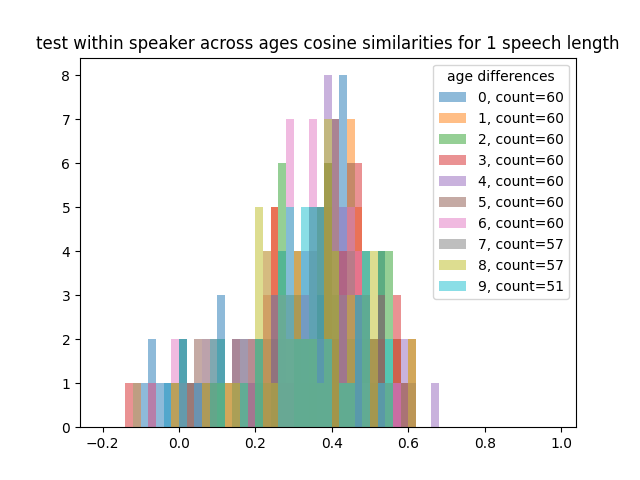
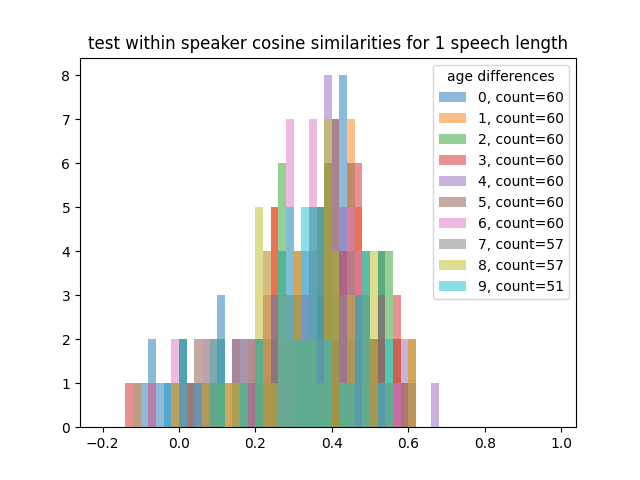
across speaker within age graphs

Changed region(s): [[0.0625, 0.0625, 0.9688, 0.125]]

diff --git a/scripts/embs_within_age_within_speaker.py b/scripts/embs_within_age_within_speaker.py
@@ -67,8 +67,12 @@ def get_cossim_df(num_pairs, parquet_path, save_path):
     return df
 
 
-def get_best_threshold_n_roc(df_within, df_across, split="train", NUM_PAIRS=3):
+def get_best_threshold_n_roc(df_within, df_across, split="train", NUM_PAIRS=3, mode="across"):
     """get metrics when comparing (across speakers) vs (within speakers at the same age)"""
+    if mode == "across":
+        mode = ""
+    else:
+        mode = "_within"
     scores = dict()
     for speech_length in speech_lengths:
         within_scores = list(reduce(lambda x, y: x + y, [df_within[f"score_{i}_{speech_length}"].tolist() for i in range(1, NUM_PAIRS+1)]))
@@ -93,14 +97,18 @@ def get_best_threshold_n_roc(df_within, df_across, split="train", NUM_PAIRS=3):
             plt.ylim([0, 1])
             plt.ylabel('True Positive Rate')
             plt.xlabel('False Positive Rate')
-            plt.savefig(os.path.join(results_dir, f"{split}_AOC_CURVE_within_speaker_within_age_VS_across_speaker_{speech_length}.png"))
+            plt.savefig(os.path.join(results_dir, f"{split}_AOC_CURVE_within_speaker_within_age_VS_across_speaker{mode}_{speech_length}.png"))
             plt.close()
             #
     return scores
 
 
-def vary_threshold_graph(df_within, df_across, split="train", NUM_PAIRS=3):
+def vary_threshold_graph(df_within, df_across, split="train", NUM_PAIRS=3, mode="across"):
     # """get metrics when comparing (across speakers) vs (within speakers at the same age)"""
+    if mode == "across":
+        mode = ""
+    else:
+        mode = "_within"
     scores = dict()
     for speech_length in speech_lengths:
         within_scores = list(reduce(lambda x, y: x + y, [df_within[f"score_{i}_{speech_length}"].tolist() for i in range(1, NUM_PAIRS+1)]))
@@ -163,7 +171,7 @@ def vary_threshold_graph(df_within, df_across, split="train", NUM_PAIRS=3):
             ax2.set_ylim(top=1.024396551724138)
             plt.legend()
             plt.title(f"Accuracy VS FNR/FNR at different thresholds for {speech_length} speech length")
-            fig.savefig(os.path.join(results_dir, f'{split}_acc_vs_fnr_n_fpr_within_age_within_age_VS_across_speaker_{speech_length}.png'),
+            fig.savefig(os.path.join(results_dir, f'{split}_acc_vs_fnr_n_fpr_within_age_within_age_VS_across_speaker{mode}_{speech_length}.png'),
                         format='png',
                         dpi=100,
                         bbox_inches='tight')
@@ -324,29 +332,84 @@ dev_across_age_df, dev_within_age_df, dev_across_speaker_df, dev_across_speaker_
 test_across_age_df, test_within_age_df, test_across_speaker_df, test_across_speaker_within_age_df = get_cossim_dfs("test")
 
 
-if GENERATE_GRAPHS:
+def within_vs_across_speaker_graphs(across_age_df, within_age_df, across_speaker_df, split="train", mode="across"):
     for speech_length in speech_lengths:
-        plt.hist(list(reduce(lambda x, y: x + y, [train_across_age_df[f"score_{i}_{speech_length}"].tolist() for i in range(1, NUM_PAIRS+1)])),
+        plt.hist(list(reduce(lambda x, y: x + y, [across_age_df[f"score_{i}_{speech_length}"].tolist() for i in range(1, NUM_PAIRS+1)])),
                 label="within speakers across ages", alpha=0.5)#, histtype="step")
-        plt.hist(train_across_speaker_df[f"score_1_{speech_length}"].tolist(),
-                label="across speakers", alpha=0.5)#, histtype="step")
+        plt.hist(across_speaker_df[f"score_1_{speech_length}"].tolist(),
+                label=f"across speakers {mode} ages", alpha=0.5)#, histtype="step")
         plt.legend()
-        plt.title(f'train across speaker VS within speaker across ages cosine similarity scores for {speech_length} speech length')
-        plt.savefig(os.path.join(results_dir, f"train_within_speaker_across_age_VS_across_speaker_{speech_length}_cossim_score.png"))
+        plt.title(f'{split} across speaker VS within speaker across ages cosine similarity scores for {speech_length} speech length')
+        plt.savefig(os.path.join(results_dir, f"{split}_within_speaker_across_age_VS_across_speaker_{speech_length}_cossim_score.png"))
         plt.close()
-#
+        #
     for speech_length in speech_lengths:
-        plt.hist(list(reduce(lambda x, y: x + y, [train_within_age_df[f"score_{i}_{speech_length}"].tolist() for i in range(1, NUM_PAIRS+1)])),
+        plt.hist(list(reduce(lambda x, y: x + y, [within_age_df[f"score_{i}_{speech_length}"].tolist() for i in range(1, NUM_PAIRS+1)])),
                 label="within speakers within ages", alpha=0.5)#, histtype="step")
-        plt.hist(train_across_speaker_df[f"score_1_{speech_length}"].tolist(),
-                label="across speakers", alpha=0.5)#, histtype="step")
+        plt.hist(across_speaker_df[f"score_1_{speech_length}"].tolist(),
+                label=f"across speakers {mode} ages", alpha=0.5)#, histtype="step")
         plt.legend()
-        plt.title(f'train across speaker VS within speaker within ages cosine similarity scores for {speech_length} speech length')
-        plt.savefig(os.path.join(results_dir, f"train_within_speaker_within_age_VS_across_speaker_{speech_length}_cossim_score.png"))
+        plt.title(f'{split} across speaker {mode} ages VS within speaker within ages\ncosine similarity scores for {speech_length} speech length')
+        plt.savefig(os.path.join(results_dir, f"{split}_within_speaker_within_age_VS_across_speaker_{mode}_age_{speech_length}_cossim_score.png"))
         plt.close()
 
 
-def compare_men_women_within_speaker(within_age_df, split):
+within_vs_across_speaker_graphs(train_across_age_df, train_within_age_df, train_across_speaker_df, split="train", mode="across")
+within_vs_across_speaker_graphs(train_across_age_df, train_within_age_df, train_across_speaker_within_age_df, split="train", mode="within")
+
+
+def across_speaker_within_vs_across_age_graphs(across_age_df, within_age_df, split="train"):
+    props = dict(boxstyle='round', facecolor='white', alpha=0.5)
+    stats_df = pd.DataFrame(columns=["comparison", "length", "mean_vp", "std_vp", "ci_lower", "ci_upper"])
+    for speech_length in speech_lengths:
+        across_age = across_age_df[f"score_1_{speech_length}"].tolist()
+        within_age = within_age_df[f"score_1_{speech_length}"].tolist()
+        plt.hist(across_age,
+                label=f"across age", alpha=0.5, bins=np.arange(-0.2, 1, 0.02))#, histtype="step")
+        plt.hist(within_age,
+                label=f"within age", alpha=0.5, bins=np.arange(-0.2, 1, 0.02))#, histtype="step")
+        #
+        mean = np.mean(across_age)
+        std = np.std(across_age)
+        t = np.abs(stats.t.ppf((1-0.95)/2, len(across_age)-1))
+        ci = (mean-std*t/np.sqrt(len(across_age)), mean+std*t/np.sqrt(len(across_age)))
+        stats_dict = {"comparison": "across", "length": speech_length, "mean_vp": np.mean(across_age),
+                      "std_vp": np.std(across_age), "ci_lower":ci[0], "ci_upper":ci[1]}
+        stats_df = pd.concat([pd.DataFrame(stats_dict, index=[0]), stats_df]).reset_index(drop=True)
+        mean = np.mean(within_age)
+        std = np.std(within_age)
+        t = np.abs(stats.t.ppf((1-0.95)/2, len(within_age)-1))
+        ci = (mean-std*t/np.sqrt(len(within_age)), mean+std*t/np.sqrt(len(within_age)))
+        stats_dict = {"comparison": "within", "length": speech_length, "mean_vp": np.mean(within_age),
+                      "std_vp": np.std(within_age), "ci_lower":ci[0], "ci_upper":ci[1]}
+        stats_df = pd.concat([pd.DataFrame(stats_dict, index=[0]), stats_df]).reset_index(drop=True)
+        #
+        stat, pvalue = stats.ttest_rel(across_age, within_age)
+        text = f"p = {pvalue:.2e}"
+        y_lim = plt.gca().get_ylim()[1]*0.95
+        plt.text(0.05, y_lim, text, verticalalignment="top", bbox=props)
+        plt.legend(title="Comparison type")
+        plt.title(f'{split} across speaker within VS across age cosine similarity scores for {speech_length} speech length')
+        plt.savefig(os.path.join(results_dir, f"{split}_across_speaker_across_VS_within_age_{speech_length}_cossim_score.png"))
+        plt.close()
+    df = stats_df[stats_df.comparison=="within"]
+    x = [f"{i}" for i in df["length"].tolist()]
+    plt.plot(x, df["mean_vp"], label="same")
+    plt.gca().fill_between(x, df["ci_lower"], df["ci_upper"], alpha=0.15)
+    df = stats_df[stats_df.comparison=="across"]
+    x = [f"{i}" for i in df["length"].tolist()]
+    plt.plot(x, df["mean_vp"], label="different")
+    plt.gca().fill_between(x, df["ci_lower"], df["ci_upper"], alpha=0.15)
+    plt.title(f'{split} cosine similarity score means for all speech lengths,\ndifferent speakers, same VS different age')
+    plt.legend(title="age")
+    plt.savefig(os.path.join(results_dir, f"{split}_across_speaker_same_VS_diff_age_means_cossim_score.png"))
+    plt.close()
+
+
+across_speaker_within_vs_across_age_graphs(train_across_speaker_df, train_across_speaker_within_age_df, split="train")
+
+
+def compare_men_women_within_age(within_age_df, split, mode="within"):
     print(f"speech length\tstatistic\tp-value\n----------------------------------------")
     props = dict(boxstyle='round', facecolor='white', alpha=0.5)
     for speech_length in speech_lengths:
@@ -364,13 +427,14 @@ def compare_men_women_within_speaker(within_age_df, split):
         plt.legend(loc="upper left")
         y_lim = plt.gca().get_ylim()[1]*0.95
         plt.text(0.05, y_lim, text, verticalalignment="top", bbox=props)
-        plt.title(f'{split} within speaker within ages, m VS f cosine similarity scores for {speech_length} speech length')
-        plt.savefig(os.path.join(results_dir, f"{split}_within_speaker_within_age_m_VS_f_{speech_length}_cossim_score.png"))
+        plt.title(f'{split} within {mode} within ages, m VS f cosine similarity scores for {speech_length} speech length')
+        plt.savefig(os.path.join(results_dir, f"{split}_{mode}_speaker_within_age_m_VS_f_{speech_length}_cossim_score.png"))
         plt.close()
         print(f"{speech_length:>13}\t{stat:>9.2f}\t{pvalue:>7.2e}")
 
 
-compare_men_women_within_speaker(train_within_age_df, "train")
+compare_men_women_within_age(train_within_age_df, "train")
+# compare_men_women_within_age(train_across_speaker_within_age_df, "train")
 
 
 def compare_men_women_across_speaker(across_speaker_within_age_df, split):
@@ -505,7 +569,7 @@ def across_ages_graph(across_age_df, across_speaker_df, thresholds, split="train
     scores = dict()
     across_age_df["age_diff"] = across_age_df[["age1", "age2"]].apply(lambda x: x.age2-x.age1, axis=1)
     across_speaker_df["age_diff"] = across_speaker_df[["age1", "age2"]].apply(lambda x: x.age2-x.age1, axis=1)
-    # stats_df = pd.DataFrame(columns=["comparison", "length", "mean_vp", "std_vp", "ci_lower", "ci_upper"])
+    stats_df = pd.DataFrame(columns=["length", "age_diff", "mean_vp", "std_vp", "ci_lower", "ci_upper"])
     for speech_length in speech_lengths:
         sub_scores = dict()
         # threshold = thresholds[f"{speech_length}"][0]
@@ -513,28 +577,81 @@ def across_ages_graph(across_age_df, across_speaker_df, thresholds, split="train
             across_age_preds = list(reduce(lambda x, y: x + y, 
                                             [across_age_df[across_age_df["age_diff"] == age_diff]
                                             [f"score_{i}_{speech_length}"].tolist() for i in range(1, num_pairs+1)]))
-            across_speaker_preds = across_speaker_df[across_speaker_df["age_diff"] == age_diff][f"score_1_{speech_length}"].tolist()
-            #
-            # all_preds = across_age_preds + across_speaker_preds
-            # all_true = [1 for _ in range(len(across_age_preds))] + [0 for _ in range(len(across_speaker_preds))]
-            # #
-            # accuracy = sum([1 if all_preds[i] == all_true[i] else 0 for i in range(len(all_true))])/len(all_true)
-            # #
-            # false_negs = sum([1 if (all_preds[i] != all_true[i]) and (all_true[i] == 1) else 0
-            #                     for i in range(len(all_true))])
-            # fnr = false_negs/len(across_age_preds)
-            # #
-            # false_poss = sum([1 if (all_preds[i] != all_true[i]) and (all_true[i] == 0) else 0
-            #                     for i in range(len(all_true))])
-            # fpr = false_poss/len(across_speaker_preds)
-            # #
-            # data = (threshold, accuracy, false_negs, false_poss, fnr, fpr)
-            # sub_scores[f"{age_diff}"] = data
+            mean = np.mean(across_age_preds)
+            std = np.std(across_age_preds)
+            t = np.abs(stats.t.ppf((1-0.95)/2, len(across_age_preds)-1))
+            ci = (mean-std*t/np.sqrt(len(across_age_preds)), mean+std*t/np.sqrt(len(across_age_preds)))
+            stats_dict = {"speaker": "same", "length": speech_length, "age_diff": age_diff, "mean_vp": np.mean(across_age_preds),
+                        "std_vp": np.std(across_age_preds), "ci_lower":ci[0], "ci_upper":ci[1]}
+            stats_df = pd.concat([pd.DataFrame(stats_dict, index=[0]), stats_df]).reset_index(drop=True)
             plt.hist(across_age_preds, label=f"{age_diff}, count={len(across_age_preds)}", alpha=0.5, bins=np.arange(-0.2, 1, 0.02))
-        # scores[f"{speech_length}"] = sub_scores
+        across_speaker_preds = list(reduce(lambda x, y: x + y, 
+                                    [across_speaker_df#[across_speaker_df["age_diff"] == age_diff]
+                                    [f"score_{i}_{speech_length}"].tolist() for i in range(1, 1+1)]))
+        mean = np.mean(across_speaker_preds)
+        std = np.std(across_speaker_preds)
+        t = np.abs(stats.t.ppf((1-0.95)/2, len(across_speaker_preds)-1))
+        ci = (mean-std*t/np.sqrt(len(across_speaker_preds)), mean+std*t/np.sqrt(len(across_speaker_preds)))
+        stats_dict = {"speaker": "diff", "length": speech_length, "age_diff": age_diff, "mean_vp": np.mean(across_speaker_preds),
+                    "std_vp": np.std(across_speaker_preds), "ci_lower":ci[0], "ci_upper":ci[1]}
+        stats_df = pd.concat([pd.DataFrame(stats_dict, index=[0]), stats_df]).reset_index(drop=True)
         plt.legend(title="age differences")
-        plt.title(f'{split} within speaker across ages cosine similarities for {speech_length} speech length')
+        plt.title(f'{split} within speaker cosine similarities for {speech_length} speech length')
         plt.savefig(os.path.join(results_dir, f"{split}_within_speaker_across_age_{speech_length}_cossim_score.png"))
         plt.close()
+    speech_length = "full"
+    within_age_preds = list(reduce(lambda x, y: x + y, 
+                                    [across_age_df[across_age_df["age_diff"] == 0]
+                                    [f"score_{i}_{speech_length}"].tolist() for i in range(1, num_pairs+1)]))
+    for age_diff in range(1, 9+1):
+        across_age_preds = list(reduce(lambda x, y: x + y, 
+                                        [across_age_df[across_age_df["age_diff"] == age_diff]
+                                        [f"score_{i}_{speech_length}"].tolist() for i in range(1, num_pairs+1)]))
+        across_speaker_preds = list(reduce(lambda x, y: x + y, 
+                                        [across_speaker_df#[across_speaker_df["age_diff"] == age_diff]
+                                        [f"score_{i}_{speech_length}"].tolist() for i in range(1, 1+1)]))
+        plt.hist(within_age_preds, label=f"0, within speaker, count={len(within_age_preds)}", alpha=0.5, bins=np.arange(-0.2, 1, 0.02))
+        plt.hist(across_age_preds, label=f"{age_diff}, within speaker, count={len(across_age_preds)}", alpha=0.5, bins=np.arange(-0.2, 1, 0.02))
+        plt.hist(across_speaker_preds, label=f"all ages, across speaker, count={len(across_speaker_preds)}", alpha=0.5, bins=np.arange(-0.2, 1, 0.02))
+        plt.gca().set_ylim(0, 50)
+        plt.legend(title="age differences")
+        plt.title(f'{split} within and across speaker across ages cosine similarities for {age_diff} year age difference')
+        plt.savefig(os.path.join(results_dir, f"{split}_within_speaker_across_age_{age_diff}_age_diff_cossim_score.png"))
+        plt.close()
+    for age_diff in range(0, 9+1):
+    # for speech_length in speech_lengths:
+        df = stats_df[(stats_df.age_diff==age_diff) & (stats_df.speaker=="same")]
+        x = [f"{i}" for i in df["length"].tolist()]
+        plt.plot(x, df["mean_vp"], label=f"{age_diff}")
+        plt.gca().fill_between(x, df["ci_lower"], df["ci_upper"], alpha=0.15)
+    df = stats_df[(stats_df.age_diff==age_diff) & (stats_df.speaker=="diff")]
+    x = [f"{i}" for i in df["length"].tolist()]
+    plt.plot(x, df["mean_vp"], label=f"diff speaker")
+    plt.gca().fill_between(x, df["ci_lower"], df["ci_upper"], alpha=0.15)
+    plt.title(f'{split} cosine similarity score means for all speech lengths,\nsame VS diff speakers, across ages')
+    plt.legend(title="Age differences")
+    plt.savefig(os.path.join(results_dir, f"{split}_within_speaker_across_age_all_speech_lengths_means_cossim_score.png"))
+    plt.close()
 
 across_ages_graph(test_across_age_df, test_across_speaker_df, scores, split="test")
+
+
+scores = get_best_threshold_n_roc(train_within_age_df, train_across_speaker_within_age_df, "train", 3, mode="within")
+thresh_scores = vary_threshold_graph(train_within_age_df, train_across_speaker_within_age_df, "train", 3, mode="within")
+add_threshold_accs_to_df(train_within_age_df, train_across_age_df, train_across_speaker_within_age_df, scores, 3, mode="within")
+add_threshold_accs_to_df(dev_within_age_df, dev_across_age_df, dev_across_speaker_within_age_df, scores, 3, mode="within")
+add_threshold_accs_to_df(test_within_age_df, test_across_age_df, test_across_speaker_within_age_df, scores, 3, mode="within")
+train_overall_accuracies = overall_accuracy(train_across_age_df, train_across_speaker_within_age_df, scores, 3, mode="within")
+dev_overall_accuracies = overall_accuracy(dev_across_age_df, dev_across_speaker_within_age_df, scores, 3, mode="within")
+test_overall_accuracies = overall_accuracy(test_across_age_df, test_across_speaker_within_age_df, scores, 3, mode="within")
+test_across_ages_accuracies = across_ages_accuracy(test_across_age_df, test_across_speaker_within_age_df, scores, 3, mode="within")
+test_within_ages_bucket_accuracies = per_bucket_accuracy(test_within_age_df, test_across_speaker_within_age_df, scores, num_pairs=3, mode="within")
+test_across_ages_bucket_accuracies = per_bucket_accuracy(test_across_age_df, test_across_speaker_within_age_df, scores, num_pairs=3, mode="within")
+
+print_overall_accuracies(train_overall_accuracies)
+print_overall_accuracies(dev_overall_accuracies)
+print_overall_accuracies(test_overall_accuracies)
+
+print_across_ages_accuracies(test_across_ages_accuracies)
+print_within_ages_bucket_accuracies(test_within_ages_bucket_accuracies)
+print_across_ages_bucket_accuracies(test_across_ages_accuracies)

diff --git a/scripts/pipeline_demo.py b/scripts/pipeline_demo.py
@@ -193,7 +193,7 @@ def across_speaker_within_age(ids_to_dokanf, split):
     print(f"\tProcessing across speaker within age")
     # across speakers
     # create speech pairs between different speakers
-    save_path = os.path.join(metadata_dir, f"{split}_across_speaker_within_age_comparisons.parquet")
+    save_path = os.path.join(metadata_dir, f"{split}_across")
     #
     comparisons = dict()
     NUM_PAIRS = 3
